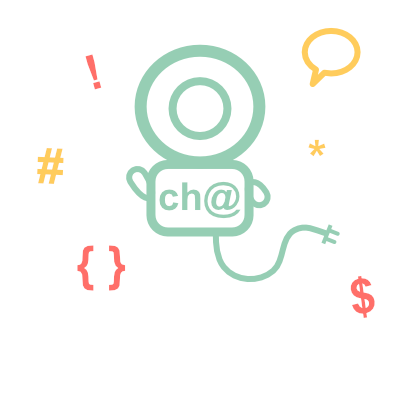
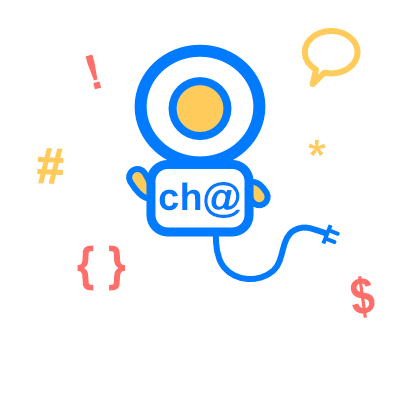
Deleted unnecessary controllers, created new ones, and worked on routes for user authentication

Changed region(s): [[0.3, 0.09, 0.87, 0.72]]

diff --git a/chat/app/assets/stylesheets/application.scss b/chat/app/assets/stylesheets/application.scss
@@ -1,13 +1,27 @@
+/*
+ * This is a manifest file that'll be compiled into application.css, which will include all the files
+ * listed below.
+ *
+ * Any CSS and SCSS file within this directory, lib/assets/stylesheets, or any plugin's
+ * vendor/assets/stylesheets directory can be referenced here using a relative path.
+ *
+ * You're free to add application-wide styles to this file and they'll appear at the bottom of the
+ * compiled file so the styles you add here take precedence over styles defined in any other CSS/SCSS
+ * files in this directory. Styles in this file should be added after the last require_* statement.
+ * It is generally better to create a new file per style scope.
+ *
+ *= require_tree .
+ *= require_self
+ */
+
 /* ========================================================
-   View Wrapper and Contianer
+   Authentication Wrapper and Contianer
    ======================================================== */
 
-.welcome-wrapper {
+  .authentication-wrapper {
   font-family: 'Poppins', sans-serif;
   height: 100vh;
-  background: #ffcb60;
-  box-sizing: border-box;
-  border: 30px solid #333;
+  background: #fbc33c;
 
   .container {
     display: grid;
@@ -48,8 +62,8 @@
 
 
 /* ========================================================
-   Side Logo
-   ======================================================== */
+    Side Logo
+    ======================================================== */
 
 .logo {
   grid-area: logo;
@@ -63,10 +77,10 @@
 }
 
 /* ========================================================
-   Sign in Form
-   ======================================================== */
+    Authentication Form Wrapper
+    ======================================================== */
 
-.welcome-form-wrapper {
+.authentication-form-wrapper {
   grid-area: form;
   text-align: center;
 
@@ -86,6 +100,11 @@
     line-height: 1.5;
     border: 1px solid #e6e6e6;
     border-radius: 25px;
+    transition: .25s ease-out;
+
+    &:focus {
+      box-shadow: 0 0 5px #007bff;
+    }
   }
 
   .submit-button {
@@ -93,10 +112,10 @@
     padding: 12px 10px;
     margin-top: 10px;
     color: #fff;
-    background: #ff6f69 ;
+    background: #007bff;
     font-size: 18px;
     font-weight: bold;
-    border: 1px solid #ff6f69 ;
+    border: 1px solid #007bff;
     border-radius: 25px;
     transition: .4s ease;
 
@@ -110,7 +129,7 @@
   .forgot, .create-account, .other-links {
     text-align: center;
     margin-top: 15px;
-    color: #888;
+    color: #777;
     font-size: 12px;
 
     a {
@@ -119,7 +138,7 @@
       transition: .2s ease;
 
       &:hover {
-        color: #ff6f69 ; 
+        color: #007bff ; 
       }
     }
   }
@@ -130,6 +149,5 @@
 
   .other-links {
     font-size: 18px;
-  }
-  
+  } 
 }

diff --git a/chat/app/assets/stylesheets/passwords.scss b/chat/app/assets/stylesheets/passwords.scss
@@ -1,0 +1,3 @@
+// Place all the styles related to the Passwords controller here.
+// They will automatically be included in application.css.
+// You can use Sass (SCSS) here: http://sass-lang.com/

diff --git a/chat/app/assets/stylesheets/sessions.scss b/chat/app/assets/stylesheets/sessions.scss
@@ -1,0 +1,3 @@
+// Place all the styles related to the Sessions controller here.
+// They will automatically be included in application.css.
+// You can use Sass (SCSS) here: http://sass-lang.com/

diff --git a/chat/app/assets/stylesheets/users.scss b/chat/app/assets/stylesheets/users.scss
@@ -1,0 +1,3 @@
+// Place all the styles related to the Users controller here.
+// They will automatically be included in application.css.
+// You can use Sass (SCSS) here: http://sass-lang.com/

diff --git a/chat/config/routes.rb b/chat/config/routes.rb
@@ -8,12 +8,18 @@ Rails.application.routes.draw do
       only: [:create, :edit, :update]
   end
 
-  get '/sign_in' => "welcome#login", as: "sign_in"
-  delete '/sign_out' => "welcome#destroy", as: "sign_out"
-  get '/sign_up' => "welcome#signup", as: "sign_up"
-  get 'home/index'
+  # Session routes
+  get '/sign_in' => 'sessions#new', as: 'sign_in'
+  delete '/sign_out' => 'sessions#destroy', as: 'sign_out'
+
+  if Clearance.configuration.allow_sign_up?
+    get '/sign_up' => 'users#new', as: 'sign_up'
+  end
+
+  # Home routes
+  get '/index' => 'home#index', as: 'all_chatrooms'
   get 'home/chatroom'
   
-  root 'welcome#login'
+  root 'sessions#new'
   # For details on the DSL available within this file, see http://guides.rubyonrails.org/routing.html
 end

diff --git a/chat/app/controllers/users_controller.rb b/chat/app/controllers/users_controller.rb
@@ -1,0 +1,10 @@
+class UsersController < Clearance::UsersController
+  # Check this link to see what Clearance::UsersController is doing
+  # https://github.com/thoughtbot/clearance/blob/master/app/controllers/clearance/users_controller.rb
+  #
+  # Probably shouldn't override those methods, but instead make new ones to do what we want to do
+  # The methods from that link handle all the user stuff... login, authentication, restricting pages, etc.
+
+  
+
+end

diff --git a/chat/app/models/user.rb b/chat/app/models/user.rb
@@ -1,3 +1,8 @@
 class User < ApplicationRecord
   include Clearance::User
+
+  # Add whatever we want for the user under here, think of this like any java class
+  # ---
+  # ---
+  
 end

diff --git a/chat/test/controllers/passwords_controller_test.rb b/chat/test/controllers/passwords_controller_test.rb
@@ -1,0 +1,7 @@
+require 'test_helper'
+
+class PasswordsControllerTest < ActionDispatch::IntegrationTest
+  # test "the truth" do
+  #   assert true
+  # end
+end

diff --git a/chat/test/controllers/sessions_controller_test.rb b/chat/test/controllers/sessions_controller_test.rb
@@ -1,0 +1,7 @@
+require 'test_helper'
+
+class SessionsControllerTest < ActionDispatch::IntegrationTest
+  # test "the truth" do
+  #   assert true
+  # end
+end

diff --git a/chat/test/controllers/users_controller_test.rb b/chat/test/controllers/users_controller_test.rb
@@ -1,0 +1,7 @@
+require 'test_helper'
+
+class UsersControllerTest < ActionDispatch::IntegrationTest
+  # test "the truth" do
+  #   assert true
+  # end
+end

diff --git a/chat/app/controllers/sessions_controller.rb b/chat/app/controllers/sessions_controller.rb
@@ -1,0 +1,5 @@
+class SessionsController < Clearance::SessionsController
+  def url_after_create
+    redirect_to all_chatrooms_url
+  end
+end

diff --git a/chat/app/controllers/passwords_controller.rb b/chat/app/controllers/passwords_controller.rb
@@ -1,0 +1,5 @@
+class PasswordsController < Clearance::PasswordsController
+  def url_after_update
+    redirect_to sign_in_url
+  end
+end
